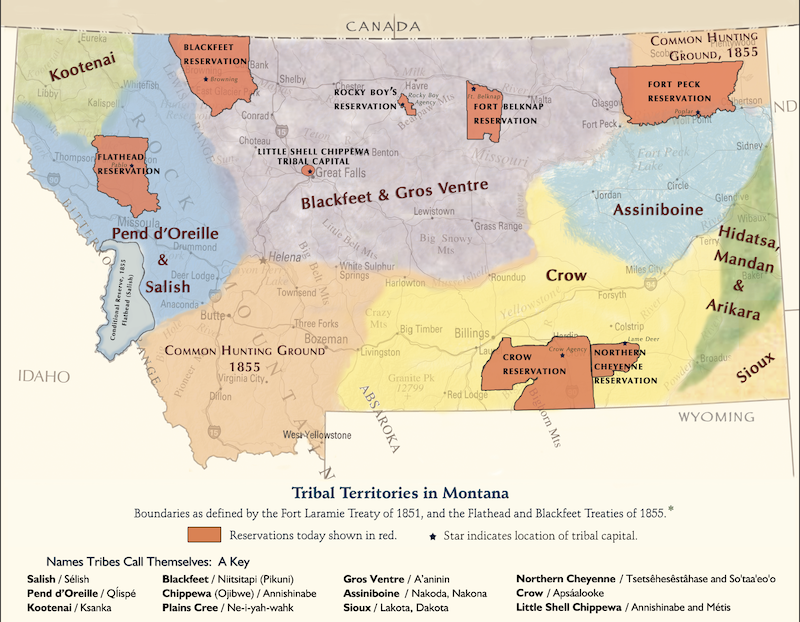
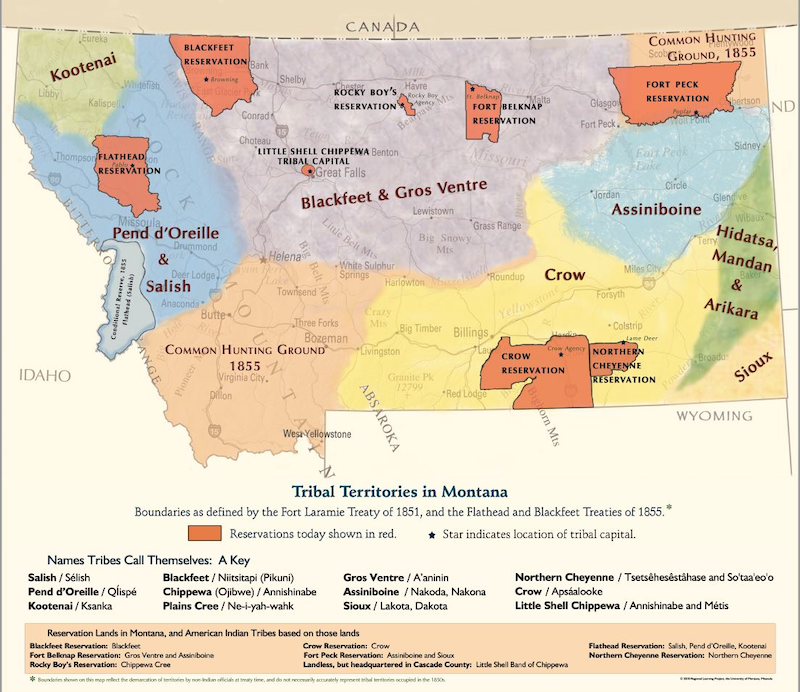
Test image reference page

diff --git a/_docs/image-references.md b/_docs/image-references.md
@@ -3,3 +3,73 @@ title: Image References
 permalink: /docs/images/
 ---
 <span class="todo">Add CC info for all images used</span>
+
+## 1-1 Tribal Areas of Montana & Treaties
+| Image | Source | License |
+| ----- | ------ | ------- |
+| ![reservation map](../resources/images/1-1_map.png) | [Source](https://www.montana.edu/iefa/introductiontomttribalnations/tribalterritories.html) | &copy; 2010 Regional Learning Project, University of Montana, Missoula  |
+
+## 2-1 Simple Circuits
+| Image | Source | License |
+| ----- | ------ |
+
+## 2-2 Parallel and Series Circuits
+| Image | Source | License |
+| ----- | ------ |
+
+## 3-1 Introduce the Ledger Art Project
+| Image | Source | License |
+| ----- | ------ |
+
+## 3-2 Design the Ledger Art Project
+| Image | Source | License |
+| ----- | ------ |
+
+## 3-3 Program the Ledger Art Project
+| Image | Source | License |
+| ----- | ------ |
+
+## 4-1 Binary
+| Image | Source | License |
+| ----- | ------ |
+
+## 4-2 Encryption
+| Image | Source | License |
+| ----- | ------ |
+
+## 4-3 Talking Without Words
+| Image | Source | License |
+| ----- | ------ |
+
+## 5-1 Relocation
+| Image | Source | License |
+| ----- | ------ |
+
+## 5-2 Human-Computer Interaction
+| Image | Source | License |
+| ----- | ------ |
+
+## 5-3 Storytelling
+| Image | Source | License |
+| ----- | ------ |
+
+## Home Page
+| Image | Source | License |
+| ----- | ------ | ------- |
+|    |   |   |
+
+## Technical Guide
+| Image | Source | License |
+| ----- | ------ | ------- |
+
+## Ledger Art Project Guide
+| Image | Source | License |
+| ----- | ------ | ------- |
+
+## Encryption Project Guide
+| Image | Source | License |
+| ----- | ------ | ------- |
+
+## Storytelling Project Guide
+| Image | Source | License |
+| ----- | ------ | ------- |
